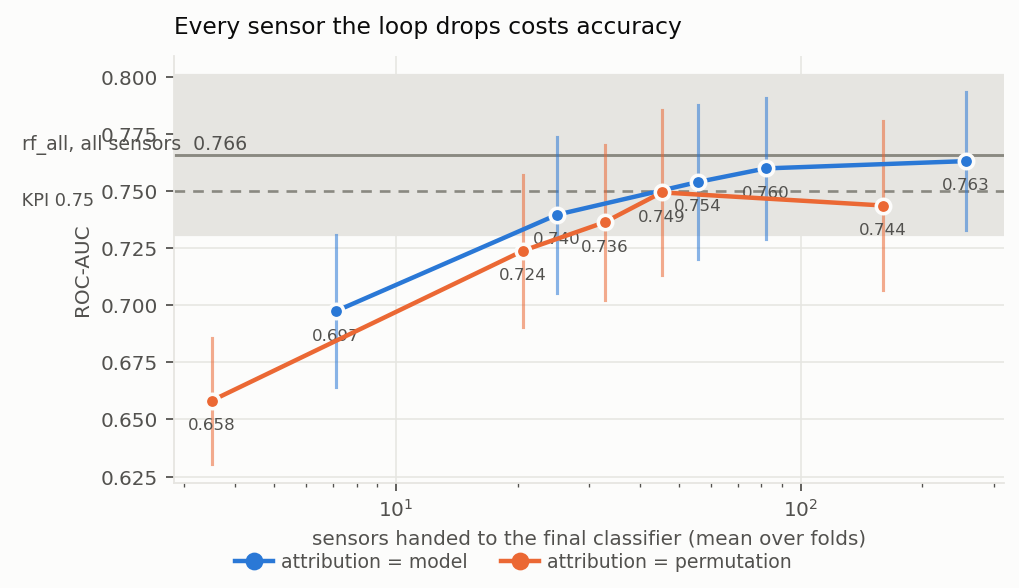
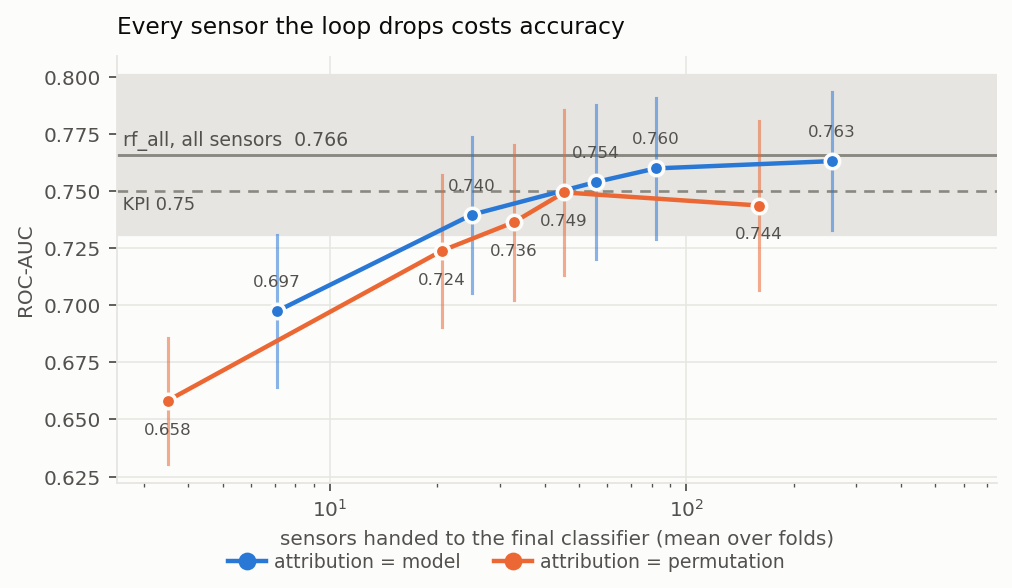
Sparsity figure: reference labels moved out of the curves, series labels split

diff --git a/scripts/make_figures.py b/scripts/make_figures.py
@@ -136,15 +136,14 @@ def fig_sparsity(sw, out):
     _grid(ax, axis="both")
     ax.axhspan(base["ci_lo"], base["ci_hi"], color=GRID, zorder=1)
     ax.axhline(base["mean"], color=INK_MUTED, linewidth=1.3, zorder=2)
-    ax.text(1.15, base["mean"], f" rf_all, all sensors  {base['mean']:.3f}",
-            fontsize=8.5, color=INK_2, va="bottom", ha="left")
     ax.axhline(KPI_AUC, color=INK_MUTED, linestyle=(0, (4, 3)), linewidth=1.2,
                zorder=2)
-    ax.text(1.15, KPI_AUC, f" KPI {KPI_AUC:.2f}", fontsize=8, color=INK_2,
-            va="top", ha="left")
     colors = ["#2a78d6", "#eb6834"]
     handles = []
-    for (mode, vals), c in zip(sorted(pts.items()), colors):
+    # one series labels above its markers, the other below, so the two
+    # attribution modes' value labels never collide at matched sparsity
+    offsets = [(0, 11), (0, -15)]
+    for (mode, vals), c, off in zip(sorted(pts.items()), colors, offsets):
         vals.sort()
         xs = [v[0] for v in vals]
         ys = [v[1] for v in vals]
@@ -160,8 +159,17 @@ def fig_sparsity(sw, out):
                    linewidth=1.6)
         for x, y, *_ in vals:
             ax.annotate(f"{y:.3f}", (x, y), textcoords="offset points",
-                        xytext=(0, -13), ha="center", fontsize=7.5, color=INK_2)
+                        xytext=off, ha="center", fontsize=7.5, color=INK_2)
     ax.set_xscale("log")
+    xs_all = [v[0] for vs in pts.values() for v in vs]
+    ax.set_xlim(min(xs_all) * 0.72, max(xs_all) * 2.9)
+    # the reference lines are labelled where the curves are not: the
+    # sparse end sits far below both lines, the dense end runs into them
+    ax.text(ax.get_xlim()[0], base["mean"] + 0.002,
+            f" rf_all, all sensors  {base['mean']:.3f}", fontsize=8.5,
+            color=INK_2, va="bottom", ha="left")
+    ax.text(ax.get_xlim()[0], KPI_AUC - 0.002, f" KPI {KPI_AUC:.2f}",
+            fontsize=8, color=INK_2, va="top", ha="left")
     ax.set_xlabel("sensors handed to the final classifier (mean over folds)")
     ax.set_ylabel("ROC-AUC")
     ax.set_title("Every sensor the loop drops costs accuracy",
